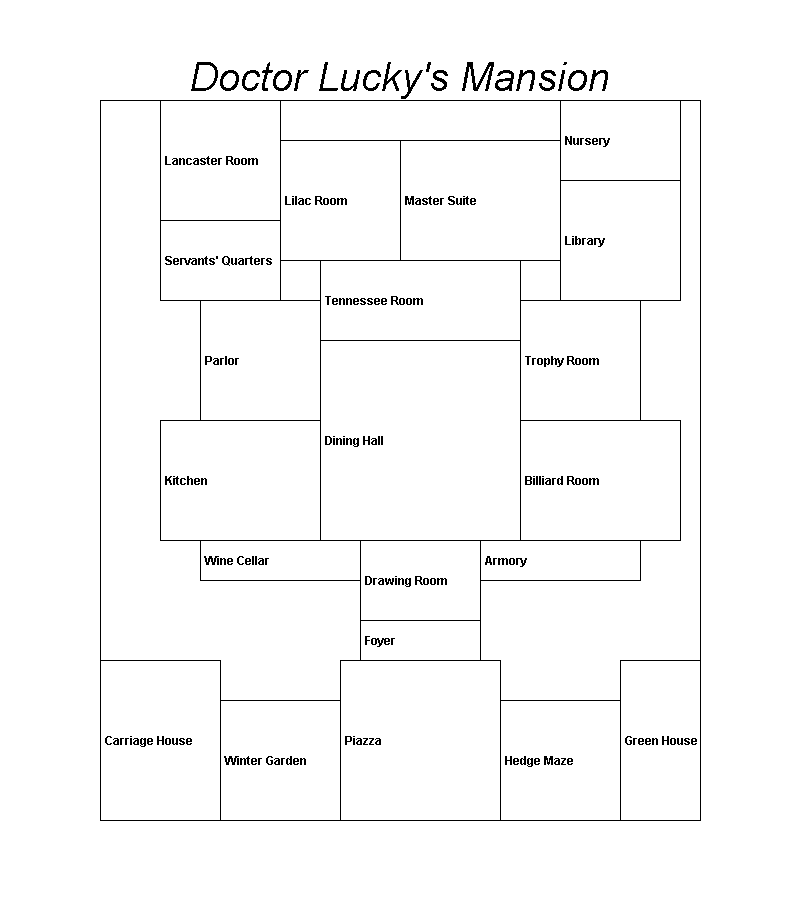
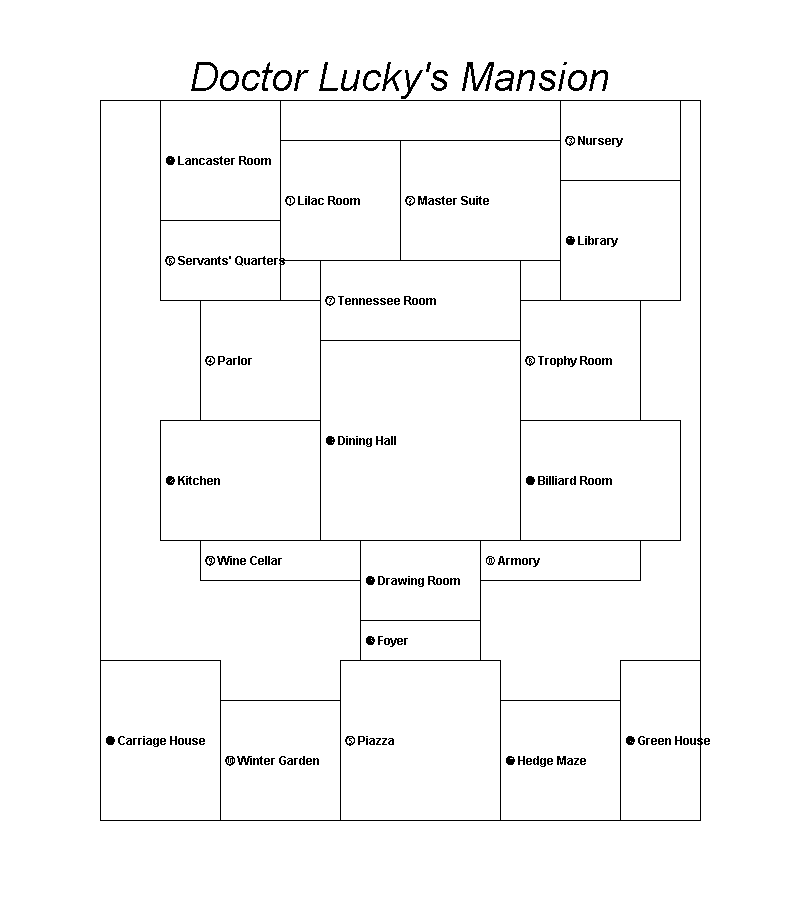
Add room number to the map.

diff --git a/src/model/World.java b/src/model/World.java
@@ -232,7 +232,7 @@ public class World implements GameModel {
       // 5 is a proper offset to guarantee the text not over lap with tht
       int textX = rectX + 5;
       int textY = rectY + (rectHeight - textHeight) / 2 + fontMetrics.getAscent();
-      graph.drawString(room.getSpaceName(), textX, textY);
+      graph.drawString(String.format("%d %s",room.getSpaceIndex(), room.getSpaceName()), textX, textY);
     }
 
     // At last, draw the world name on top
@@ -436,6 +436,12 @@ public class World implements GameModel {
   @Override
   public CharSequence queryTargetDetails() {
     return targetCharacter.querryDetails();
+  }
+
+  @Override
+  public String queryRoomNeighbors(int playerLocation) {
+    
+    return roomList.get(playerLocation).queryRoomNeighbors();
   }
 
 }

diff --git a/src/model/RoomSpace.java b/src/model/RoomSpace.java
@@ -154,6 +154,15 @@ public class RoomSpace {
         
     return stringBuilder.toString();
   }
+
+  public String queryRoomNeighbors() {
+    StringBuilder stringBuilder = new StringBuilder();
+    stringBuilder.append("-------------------Neighbor Info-------------------\n");
+    for(RoomSpace room:neighboRoomSpaces) {
+      stringBuilder.append(room).append("\n");
+    }
+    return stringBuilder.toString();
+  }
   
   
 }

diff --git a/src/controller/MoveToNeighbor.java b/src/controller/MoveToNeighbor.java
@@ -18,7 +18,7 @@ public class MoveToNeighbor extends TurnBaseCommand {
 
     while (true) {
       int playerLocation = model.getPlayerLocation(playerId);
-      out.append(model.queryRoomDetails(playerLocation));
+      out.append(model.queryRoomNeighbors(playerLocation));
       out.append("Enter the room index to move to\n");
       String line = scan.nextLine().trim();
       try {

diff --git a/src/model/Test.java b/src/model/Test.java
@@ -5,6 +5,10 @@ package model;
 public class Test {
 
   public static void main(String[] args) {
+    String dingbatZero = "\uD83C\uDD0B"; // Unicode for DINGBAT CIRCLED SANS-SERIF DIGIT ZERO
+
+    System.out.println(dingbatZero);
+    System.out.println(dingbatZero);
     Player player = new Player("Jimmy", 10, 2,true, 0);
     System.out.println(player);
 

diff --git a/src/model/GameModel.java b/src/model/GameModel.java
@@ -115,4 +115,6 @@ public interface GameModel {
   String queryItemDetails(int itemId);
 
   CharSequence queryTargetDetails();
+
+  String queryRoomNeighbors(int playerLocation);
 }
